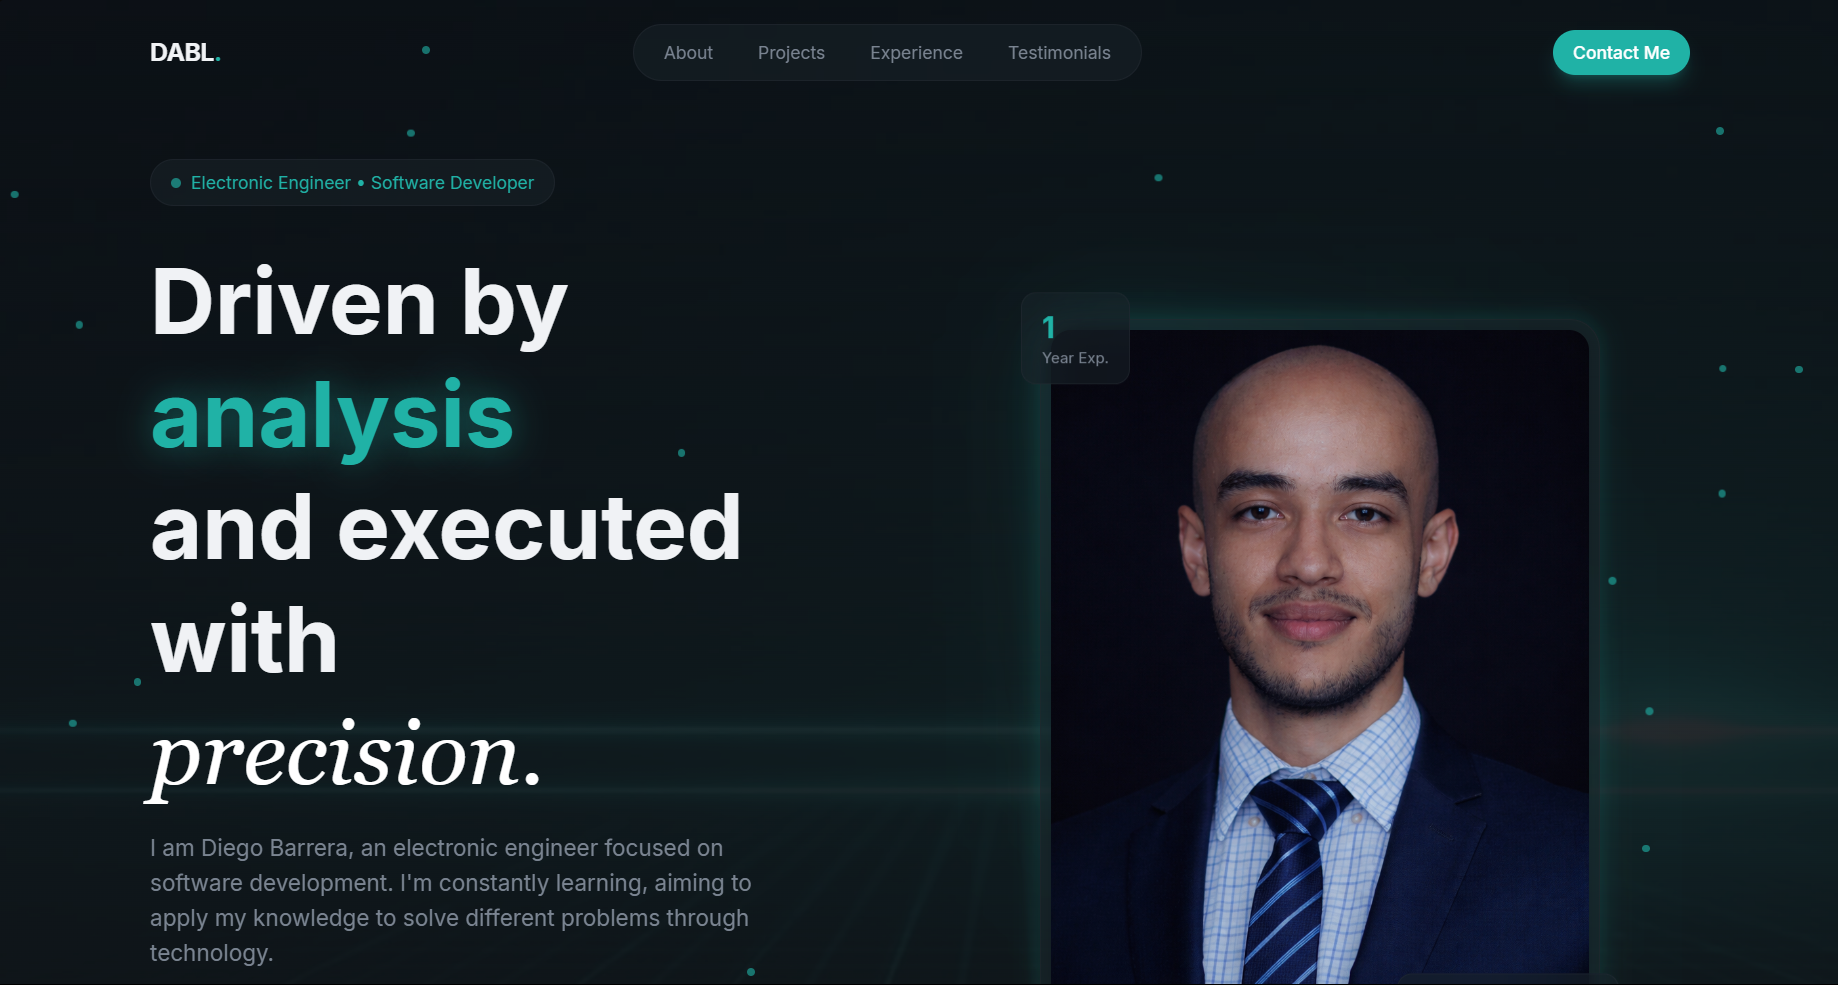
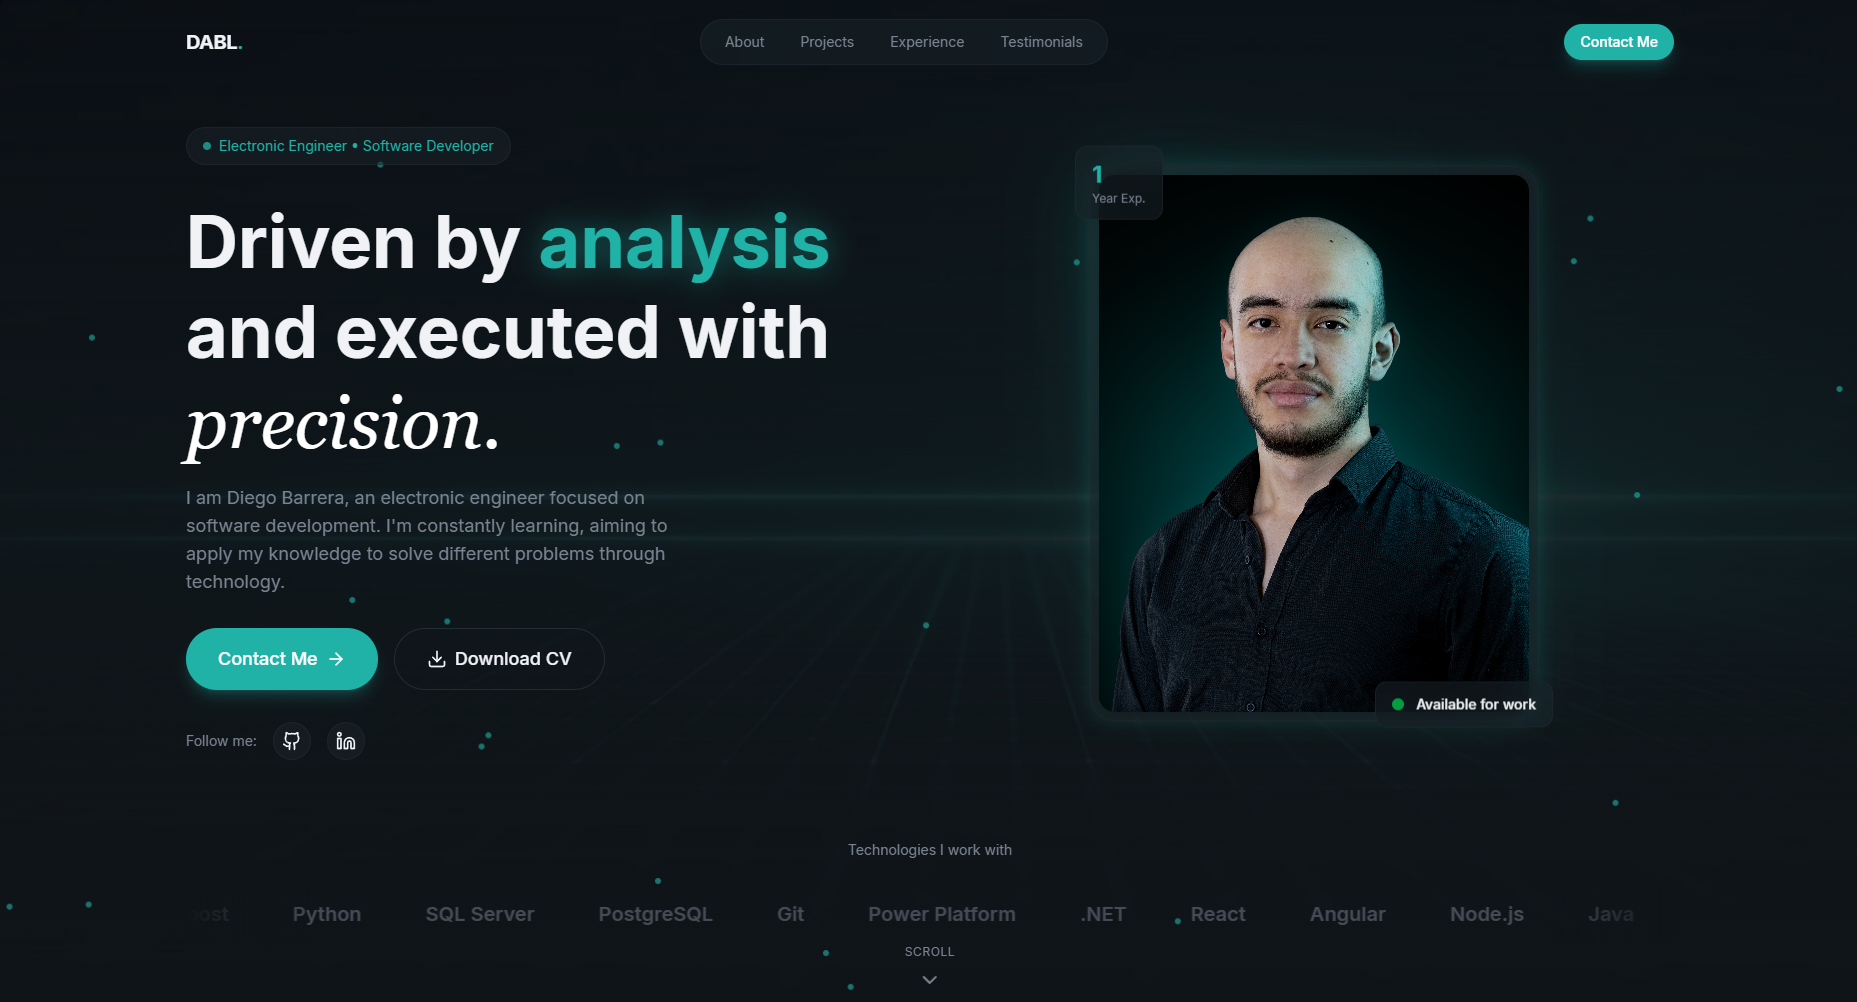
Cambio foto de perfil

diff --git a/src/sections/Hero.jsx b/src/sections/Hero.jsx
@@ -134,7 +134,7 @@ export const Hero = () => {
               />
               <div className="relative glass rounded-3xl p-2 glow-border">
                 <img
-                  src="foto-me.png"
+                  src="profile.jpg"
                   alt="Diego Barrera"
                   className="w-full aspect-[4/5] object-cover rounded-2xl"
                 />
